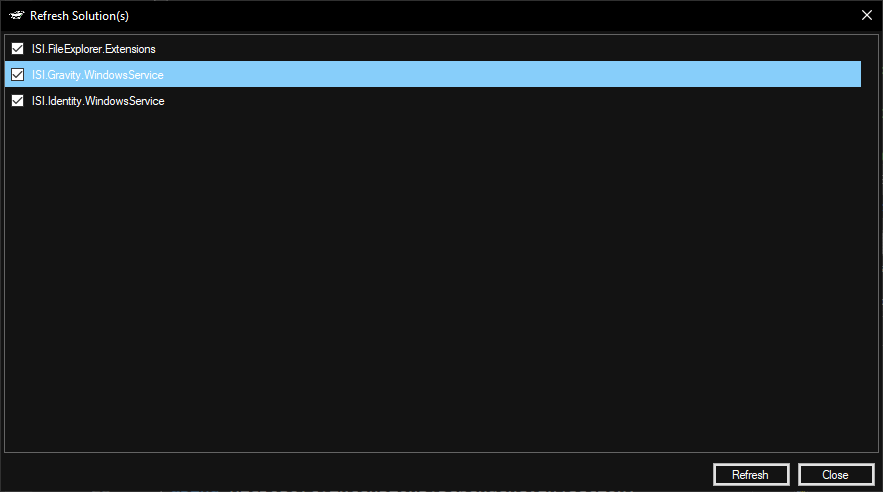
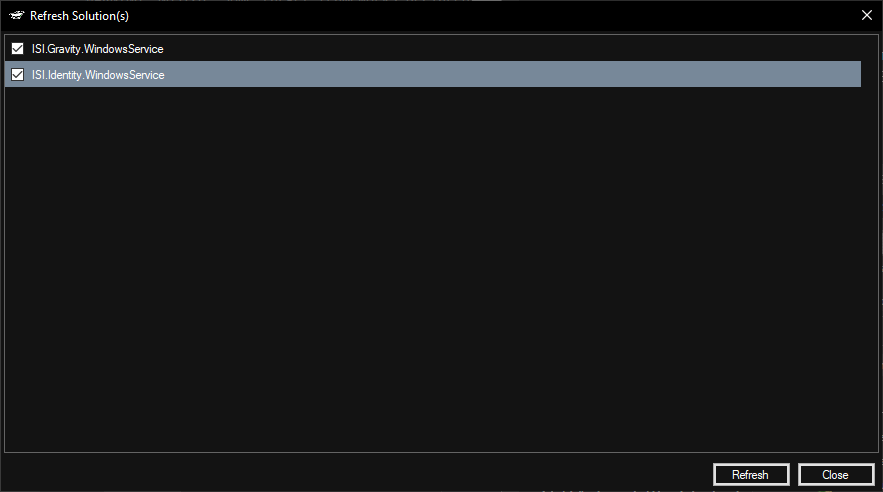
WIP

Changed region(s): [[0.0, 0.0915, 0.9785, 0.2134]]

diff --git a/src/ISI.FileExplorer.Extensions.Runner/NewVersionForm.cs b/src/ISI.FileExplorer.Extensions.Runner/NewVersionForm.cs
@@ -31,7 +31,7 @@ namespace ISI.FileExplorer.Extensions.Runner
 		{
 			InitializeComponent();
 
-			ISI.Extensions.WinForms.ThemeHelper.SetWindowThemeForms(this);
+			ISI.Extensions.WinForms.ThemeHelper.SyncTheme(this);
 
 			this.Icon = new Icon(ISI.FileExplorer.Extensions.Runner.T4Resources.Artwork.GetLantern_icoStream());
 			this.ControlBox = true;

diff --git a/src/ISI.FileExplorer.Extensions.Runner/StatusForm.cs b/src/ISI.FileExplorer.Extensions.Runner/StatusForm.cs
@@ -31,7 +31,7 @@ namespace ISI.FileExplorer.Extensions.Runner
 		{
 			InitializeComponent();
 
-			ISI.Extensions.WinForms.ThemeHelper.SetWindowThemeForms(this);
+			ISI.Extensions.WinForms.ThemeHelper.SyncTheme(this);
 
 			Icon = new Icon(ISI.FileExplorer.Extensions.Runner.T4Resources.Artwork.GetLantern_icoStream());
 			ControlBox = true;
